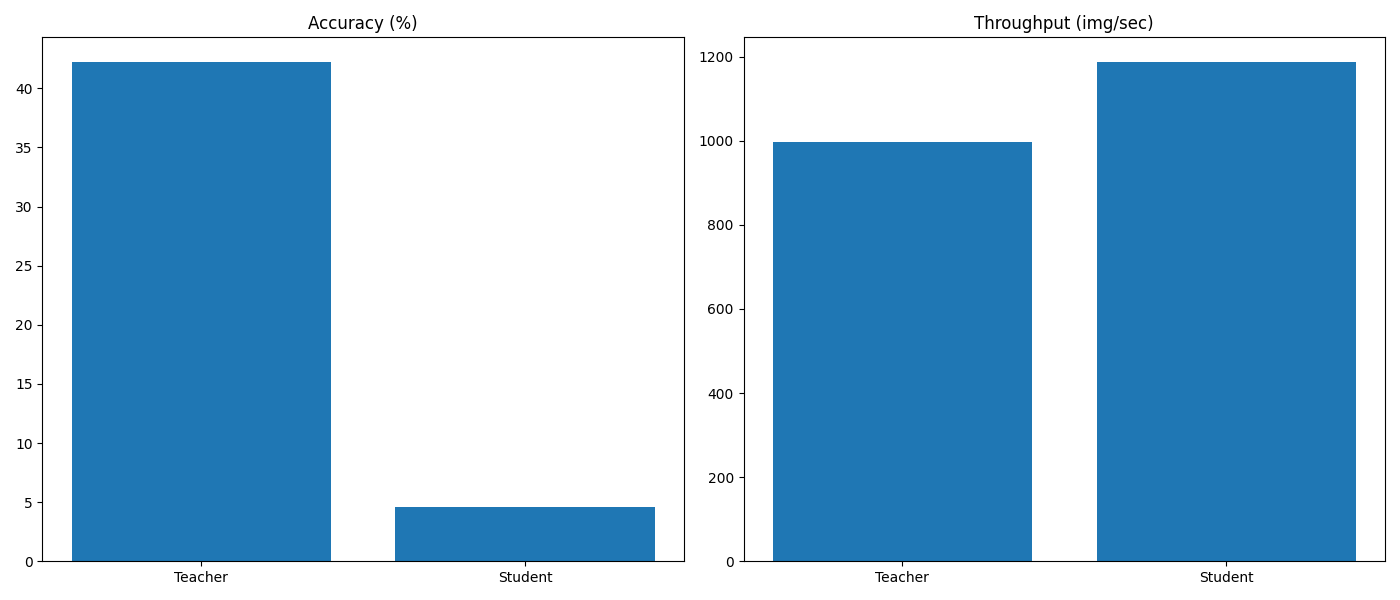
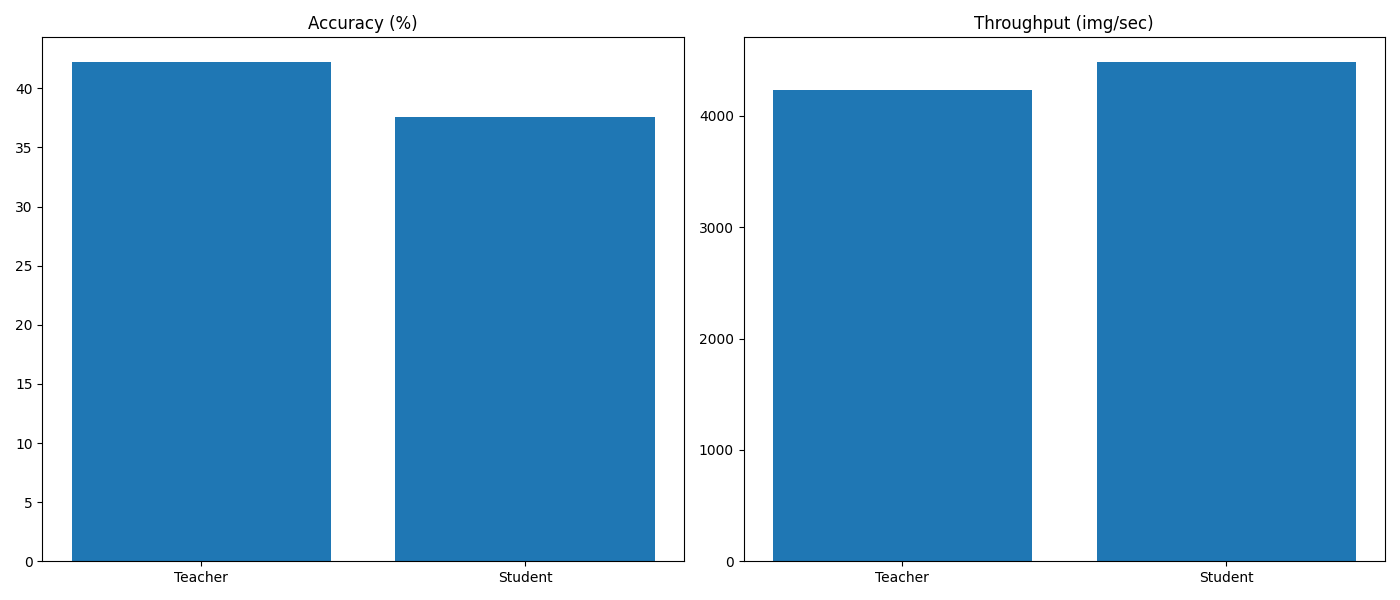
Correcting testing file imagenet

Changed region(s): [[0.2764, 0.18, 0.5221, 0.87], [0.5529, 0.15, 0.7371, 0.24], [0.4914, 0.09, 0.5221, 0.12]]

diff --git a/testing/test_imagenet_previous.py b/testing/test_imagenet_previous.py
@@ -1,6 +1,3 @@
-# This Python file gathers all the functions / classes needed to handle training, validation or inference from the ViT model
-# python -m training.train_student_imagenet
-
 import os
 import time
 import torch
@@ -17,45 +14,26 @@ from configs.train_imagenet1k import *
 from helper_function.print import *
 from typing import List, Tuple, Optional, Any
 
-device = torch.device("cuda" if torch.cuda.is_available() else "cpu")
+
+# ------------------------------------------------------------------
+# Setup
+# ------------------------------------------------------------------
+device = torch.device("cpu")
 print(bold(f"Using device: {device}"))
 
-# Checkpoint paths
 checkpoint_dir = "checkpoints/imagenet1K"
-checkpoint_path = f"{checkpoint_dir}/student_checkpoint_last.pth"
-teacher_checkpoint = f"{checkpoint_dir}/teacher_checkpoint_best.pth"
+teacher_path = f"{checkpoint_dir}/teacher_checkpoint_best.pth"
 student_path = f"{checkpoint_dir}/student_best.pth"
-os.makedirs(checkpoint_dir, exist_ok=True)
-
-
-
-
 
 results_dir = "testing/log/Imagenet/best/Evaluation_Graphs_Test"
 pruning_vis_dir = "testing/log/Imagenet/best/Pruning_Images"
 os.makedirs(results_dir, exist_ok=True)
-
-# Initialize and load TEACHER
-print(yellow("Initializing Teacher..."))
-teacher = VisionTransformer(d_model, n_classes, img_size, patch_size, n_channels, n_heads, n_layers).to(device)
-
-if os.path.exists(teacher_checkpoint):
-    print(green(f"Loading Teacher weights from {teacher_checkpoint}"))
-    teacher.load_state_dict(torch.load(teacher_checkpoint, map_location=device))
-else:
-    raise FileNotFoundError(red(f"Teacher checkpoint not found at {teacher_checkpoint}. Please run run_teacher.py first!"))
-
-
-# Initialize student
-print(yellow("Initializing Student..."))
-student = DynamicVisionTransformer(
-    d_model, n_classes, img_size, patch_size, n_channels, n_heads, n_layers, pruning_index, rho_init
-).to(device)
+os.makedirs(pruning_vis_dir, exist_ok=True)
 
 # ------------------------------------------------------------------
 # Evaluation
 # ------------------------------------------------------------------
-def evaluate_teacher_model(
+def evaluate_model(
     model: nn.Module,
     loader: torch.utils.data.DataLoader,
     device: torch.device,
@@ -226,183 +204,128 @@ def plot_per_class_accuracy(
     plt.savefig(os.path.join(save_dir, "compare_per_class_accuracy.png"))
     plt.close()
 
-# def evaluate_student_model(
-#     student: nn.Module,
-#     loader: torch.utils.data.DataLoader,
-#     device: torch.device,
-#     desc: str = "Validation"
-# ) -> tuple[float, np.ndarray]:
-#     """
-#     Evaluate the student model on a validation or test dataset.
+# ------------------------------------------------------------------
+# Pruning Visualization
+# ------------------------------------------------------------------
 
-#     The model is run in evaluation mode with no gradient computation.
-#     Only classification accuracy and confusion matrix are computed.
 
-#     Args:
-#         student: Student Vision Transformer model.
-#         loader: Validation or test data loader.
-#         device: Device used for evaluation.
-#         desc: Description shown in the progress bar.
 
-#     Returns:
-#         accuracy: Classification accuracy in percentage.
-#         cm: Confusion matrix over all classes.
-#     """
-#     student.eval()
-#     correct = 0
-#     total = 0
-#     all_preds, all_labels = [], []
-
-#     with torch.no_grad():
-#         for imgs, labels in tqdm(loader, desc=desc):
-#             imgs, labels = imgs.to(device), labels.to(device)
-#             student_logits, _, _, _ = student(imgs)  # Only logits needed
-#             _, predicted = torch.max(student_logits, 1)
-#             total += labels.size(0)
-#             correct += (predicted == labels).sum().item()
-#             all_preds.extend(predicted.cpu().numpy())
-#             all_labels.extend(labels.cpu().numpy())
-
-#     accuracy = 100 * correct / total
-#     cm = confusion_matrix(all_labels, all_preds)
-#     return accuracy, cm
-
-def evaluate_student_model(
-    student: nn.Module,
+def visualize_pruning_on_images(
+    student_model: nn.Module,
     loader: torch.utils.data.DataLoader,
     device: torch.device,
-    desc: str = "Validation"
-) -> tuple[float, float, float, list, list]:
+    num_images: int = 8,
+    pruning_layers: List[int] = pruning_index,
+    pruned_color: Tuple[float, float, float] = (0.5, 0.5, 0.5),
+    mean: List[float] = mean_norm_imagenet,
+    std: List[float] = std_norm_imagenet,
+) -> None:
     """
-    Evaluate the student model on a dataset and compute loss, accuracy, throughput, and predictions.
+    Visualize pruning masks applied by the student model on input images.
 
     Args:
-        student: Student Vision Transformer model.
-        loader: DataLoader for validation or test data.
-        device: Device used for evaluation.
-        desc: Description shown in the progress bar.
-
-    Returns:
-        accuracy: Classification accuracy (%).
-        avg_loss: Average cross-entropy loss.
-        throughput: Images processed per second.
-        all_preds: List of predicted class indices.
-        all_labels: List of ground-truth class indices.
+        student_model: Student DynamicViT model.
+        loader: DataLoader providing the images.
+        device: Device to run the visualization on.
+        num_images: Maximum number of images to visualize.
+        pruning_layers: List of layer indices to visualize pruning.
+        pruned_color: RGB color used to mark pruned patches.
+        mean: Mean values for image de-normalization.
+        std: Standard deviation values for image de-normalization.
     """
-    student.eval()
-    criterion = nn.CrossEntropyLoss()
-    running_loss, correct, total = 0.0, 0, 0
-    all_preds, all_labels = [], []
 
-    start_time = time.time()
+    os.makedirs(pruning_vis_dir, exist_ok=True)
+    student_model.eval()
+    images_done = 0
+
+    mean = np.array(mean)
+    std = np.array(std)
 
     with torch.no_grad():
-        for imgs, labels in tqdm(loader, desc=f"Testing Student - {desc}"):
-            imgs, labels = imgs.to(device), labels.to(device)
+        for imgs, _ in loader:
+            imgs = imgs.to(device)
 
-            outputs = student(imgs)
-            logits = outputs[0] if isinstance(outputs, tuple) else outputs
+            outputs = student_model(imgs)
+            if not isinstance(outputs, tuple) or len(outputs) < 3:
+                print("Student model does not return pruning masks.")
+                return
 
-            # Compute loss
-            loss = criterion(logits, labels)
-            running_loss += loss.item() * imgs.size(0)
+            _, _, all_masks, _ = outputs
 
-            # Compute accuracy
-            _, predicted = torch.max(logits, 1)
-            total += labels.size(0)
-            correct += (predicted == labels).sum().item()
+            B, C, H, W = imgs.shape
+            ph, pw = student_model.patch_size
+            n_h, n_w = H // ph, W // pw
+            num_patches = n_h * n_w
 
-            all_preds.extend(predicted.cpu().numpy())
-            all_labels.extend(labels.cpu().numpy())
+            for i in range(B):
+                if images_done >= num_images:
+                    return
 
-    total_time = time.time() - start_time
-    avg_loss = running_loss / len(loader.dataset)
-    accuracy = 100 * correct / total
-    throughput = len(loader.dataset) / total_time
+                img = imgs[i].cpu().numpy().transpose(1, 2, 0)
+                img = img * std + mean
+                img = np.clip(img, 0, 1)
 
-    print(orange("-" * 10 + f"\nResults for Student ({desc}):" + "-" * 10))
-    print(bold(f"  Accuracy: {accuracy:.2f}%"))
-    print(bold(f"  Loss: {avg_loss:.4f}"))
-    print(bold(f"  Throughput: {throughput:.2f} img/sec"))
+                fig, axes = plt.subplots(1, len(pruning_layers) + 1,
+                                         figsize=(3 * (len(pruning_layers) + 1), 3))
+                axes[0].imshow(img)
+                axes[0].set_title("Original")
+                axes[0].axis("off")
 
-    return accuracy, avg_loss, throughput, all_preds, all_labels
+                for j, layer_id in enumerate(pruning_layers):
+                    real_idx = student_model.pruning_index.index(layer_id)
+                    mask = all_masks[real_idx][i].cpu().numpy()[1:1 + num_patches]
+                    mask = mask.reshape(n_h, n_w)
 
+                    pruned_img = img.copy()
+                    for h in range(n_h):
+                        for w in range(n_w):
+                            if mask[h, w] == 0:
+                                y0, y1 = h * ph, (h + 1) * ph
+                                x0, x1 = w * pw, (w + 1) * pw
+                                pruned_img[y0:y1, x0:x1, :] = pruned_color
 
-def rho_schedule(
-    epoch: int,
-    max_epoch: int,
-    rho_init: float = 1.0,
-    rho_final: float = 0.7,
-    steepness: float = 10.0
-) -> float:
-    """
-    Compute a smooth pruning ratio schedule using a sigmoid function.
+                    keep_ratio = mask.mean()
+                    axes[j + 1].imshow(pruned_img)
+                    axes[j + 1].set_title(f"L{layer_id} | keep={keep_ratio:.2f}")
+                    axes[j + 1].axis("off")
 
-    The schedule starts close to rho_init, transitions smoothly around
-    mid-training, and converges towards rho_final.
-
-    Args:
-        epoch: Current epoch index.
-        max_epoch: Total number of epochs.
-        rho_init: Initial pruning ratio.
-        rho_final: Final pruning ratio.
-        steepness: Controls how sharp the transition is.
-
-    Returns:
-        rho: Pruning ratio for the given epoch.
-    """
-    x = epoch / (max_epoch - 1)
-    s = 1 / (1 + np.exp(-steepness * (x - 0.5)))
-    return rho_init + (rho_final - rho_init) * s
+                plt.tight_layout()
+                plt.savefig(os.path.join(pruning_vis_dir, f"img_{images_done}.png"))
+                plt.close()
+                images_done += 1
 
 
+# ------------------------------------------------------------------
+# Main
+# ------------------------------------------------------------------
 if __name__ == "__main__":
-    start_time = time.time()
-
     class_names = None
-    # Load data
-    print(blue("Loading Data..."))
-    train_loader, val_loader, test_loader = load_imagenet1k()
 
-    print(yellow("Starting Student Testing..."))
-    start_epoch = 0
-    history = {
-        'train_loss': [], 'ratio_loss': [], "distill_loss": [], "kl_loss": [],
-        'train_acc': [], 'val_acc': [], 'lrs': [], 'rho': []
-    }
-    scaler = torch.amp.GradScaler()  # Mixed precision scaler
+    print(yellow("Loading Test Data..."))
+    _, _, test_loader = load_imagenet1k()
 
-    if os.path.exists(checkpoint_path):
-        ckpt = torch.load(checkpoint_path, map_location=device, weights_only=False)
-        last_epoch = ckpt['epoch']
-        ans = input(f"Checkpoint found at epoch {last_epoch}. Test last model or best one ? [last/best/n]")
-        if ans.lower() == 'last':
-            student.load_state_dict(ckpt['student_state'])
-            start_epoch = last_epoch + 1
-            results_dir = "testing/log/Imagenet/last/Evaluation_Graphs_Test"
-            pruning_vis_dir = "testing/log/Imagenet/last/Pruning_Images"
-        elif ans.lower() == 'best':
-            student.load_state_dict(torch.load(student_path, map_location=device))
-            start_epoch = 85
-            results_dir = "testing/log/Imagenet/best/Evaluation_Graphs_Test"
-            pruning_vis_dir = "testing/log/Imagenet/best/Pruning_Images"
+    print(yellow("Loading Teacher Model..."))
+    teacher = VisionTransformer(
+        d_model, n_classes, img_size, patch_size,
+        n_channels, n_heads, n_layers
+    ).to(device)
+    teacher.load_state_dict(torch.load(teacher_path, map_location=device))
 
-    best_val_acc = 0.0
-    rho = rho_schedule(start_epoch, epochs)
+    print(yellow("Loading Student Model..."))
+    student = DynamicVisionTransformer(
+        d_model, n_classes, img_size, patch_size,
+        n_channels, n_heads, n_layers,
+        pruning_index=pruning_index,rho = 0.709
+    ).to(device)
+    student.load_state_dict(torch.load(student_path, map_location=device))
 
-    
     # Evaluation
-    t_acc, t_loss, t_speed, t_preds, t_labels = evaluate_teacher_model(
+    t_acc, t_loss, t_speed, t_preds, t_labels = evaluate_model(
         teacher, test_loader, device, "Teacher"
     )
-
-    # best
-    
-
-    s_acc, s_loss, s_speed, s_preds, s_labels  = evaluate_student_model(student, test_loader, device, desc="Testing Student")
-
-
-
+    s_acc, s_loss, s_speed, s_preds, s_labels = evaluate_model(
+        student, test_loader, device, "Student"
+    )
 
     print(yellow("Generating graphs..."))
     plot_confusion_matrices(
@@ -422,12 +345,6 @@ if __name__ == "__main__":
     diff_speed = ((s_speed - t_speed) / t_speed) * 100
     print(bold(f"Student speed-up: {diff_speed:.2f}%"))
 
-    # print(yellow("Visualizing pruning..."))
-    # visualize_pruning_on_images(student, test_loader, device)
-    # print(green("Done."))
-
-    # Display time taken
-    seconds = time.time() - start_time
-    print(cyan('Time Taken:'), cyan(time.strftime("%H:%M:%S", time.gmtime(seconds))))
-
-
+    print(yellow("Visualizing pruning..."))
+    visualize_pruning_on_images(student, test_loader, device)
+    print(green("Done."))
